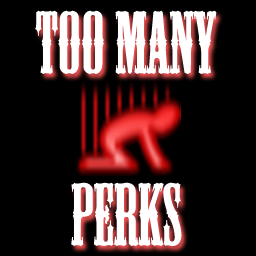
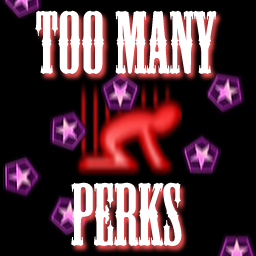
final version

diff --git a/Too Many Perks/README.md b/Too Many Perks/README.md
@@ -25,14 +25,7 @@ Thank to Stonewall, sara, JackRenoson, Voodoo, GCHero, ga7021, Corydonn, and Cor
 2. Click **Install with Mod Manager** button on top of the page.
 3. Run the game via the mod manager.
 
-## Support
-
-I will keep watching for cards strength, try to make sure these cards display their strength that should be there.
-
-Evelyn's traits are prefer using three different curses to deal damage, not the direct damage, So I modify the fourth of burn perk to fit the mods.
-
-Hope you enjoy it and if have any idea or bug, just open a github issue or make a post in the **modding #support-and-requests** channel of the [official Across the Obelisk Discord](https://discord.gg/across-the-obelisk-679706811108163701).
 
 ## Donation
 
-I make mods just because I want, not making money. But if you want to donate to me, you can [Click it](https://ko-fi.com/shazixnar), and I thank you so much!
+Please do not donate to me

diff --git a/Too Many Perks/CHANGELOG.md b/Too Many Perks/CHANGELOG.md
@@ -1,3 +1,7 @@
+# 1.0.1
+
+Updated README and icon.
+
 # 1.0.0
 
 Initial release.
